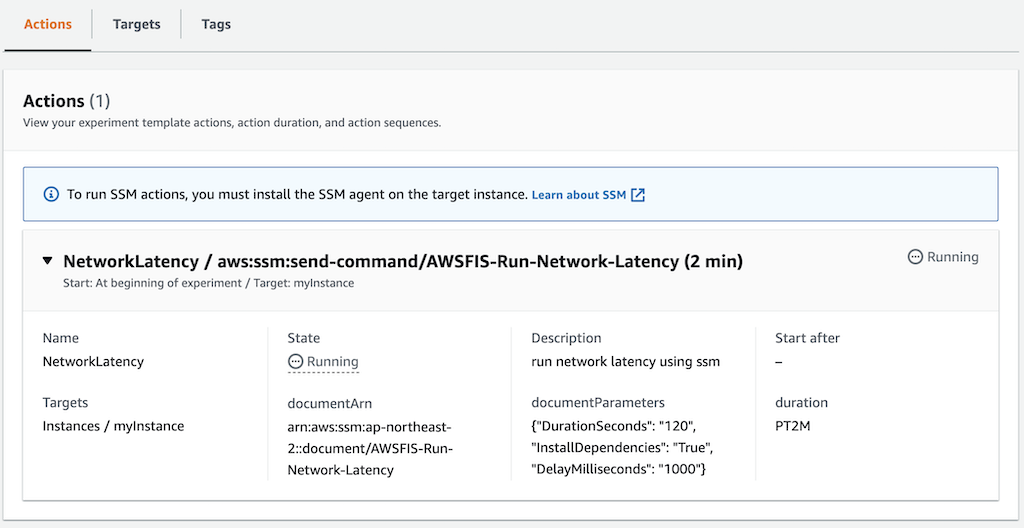
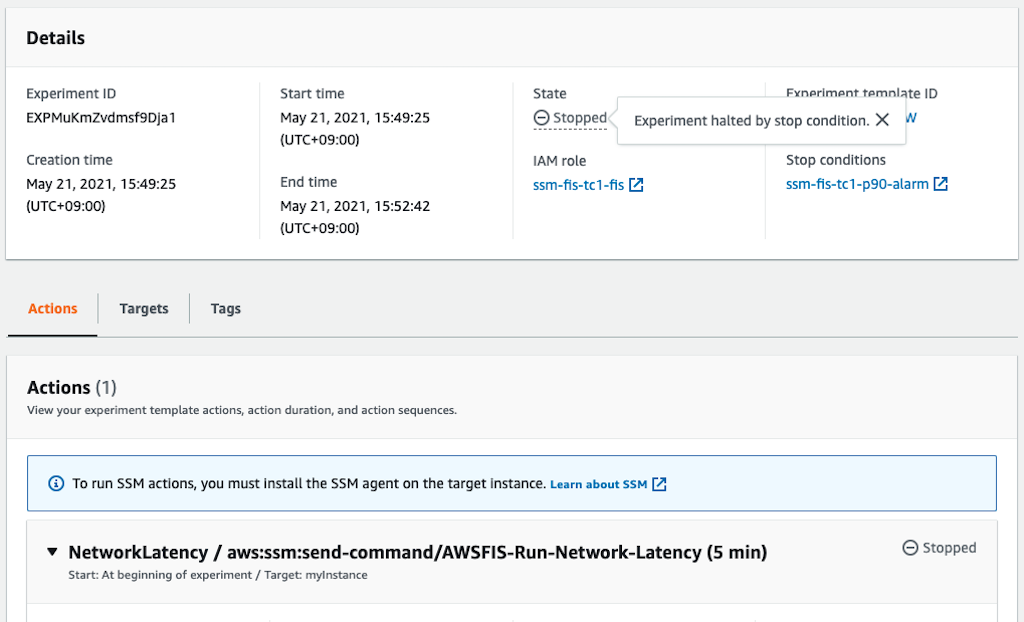
feat(fis): p90 api latency alarm for stop condition (#16)

diff --git a/examples/fis/README.md b/examples/fis/README.md
@@ -58,6 +58,36 @@ Following screenshot shows how it works. First line shows the request and repons
 
 ![aws-fis-throttling-ec2-api](../../images/aws-fis-throttling-ec2-api.png)
 
+### Stop condition
+#### Switch alarm
+To test stop condition with cloudwatch alarm, we have to update the terraform configuration to pass the ARN of p90 latency alarm.
+Replace the alarm for stop condition with "p90" from "cpu" on the edit page of experiment template on the AWS management console.
+
+1. Move on the FIS service page.
+1. Select `experiment templates` on the navigation bar.
+1. Find out `NetworkLatency` template from the list and select.
+1. Click `Actions` button and select `Update experiment template` menu to update the template configuration.
+1. Scroll down to the bottom of edit page. And update the stop condition alarm to `xxxx-p90-alarm` and save.
+
+![aws-fis-stop-condition-update-p90](../../images/aws-fis-stop-condition-update-p90.png)
+
+#### Run load generator
+Enter an ec2 instance via session manager and run virtual client script runs loop action for http requests on the target application load balancer. You will find out the example script for virtual client load generater on the terraform outputs after terraform apply command is complete. It looks like below.
+```
+#!/bin/bash
+while true; do
+  curl -I http://my-loadbalancer-1234567890.us-west-2.elb.amazonaws.com
+  echo
+  sleep .5
+done
+```
+The cloudwatch alarm will be chaged to OK status in minutes after the load generator script running.
+
+### Network latency injection
+We are now ready to start network latecy fault injection and test the emergency stop of aws fault injection simulator is working well to reduce the customer impact.
+
+![aws-fis-api-latency-alarm-p90](../../images/aws-fis-api-latency-alarm-p90.png)
+
 ## Clean up
 ### Delete experiment templates
 Run script
